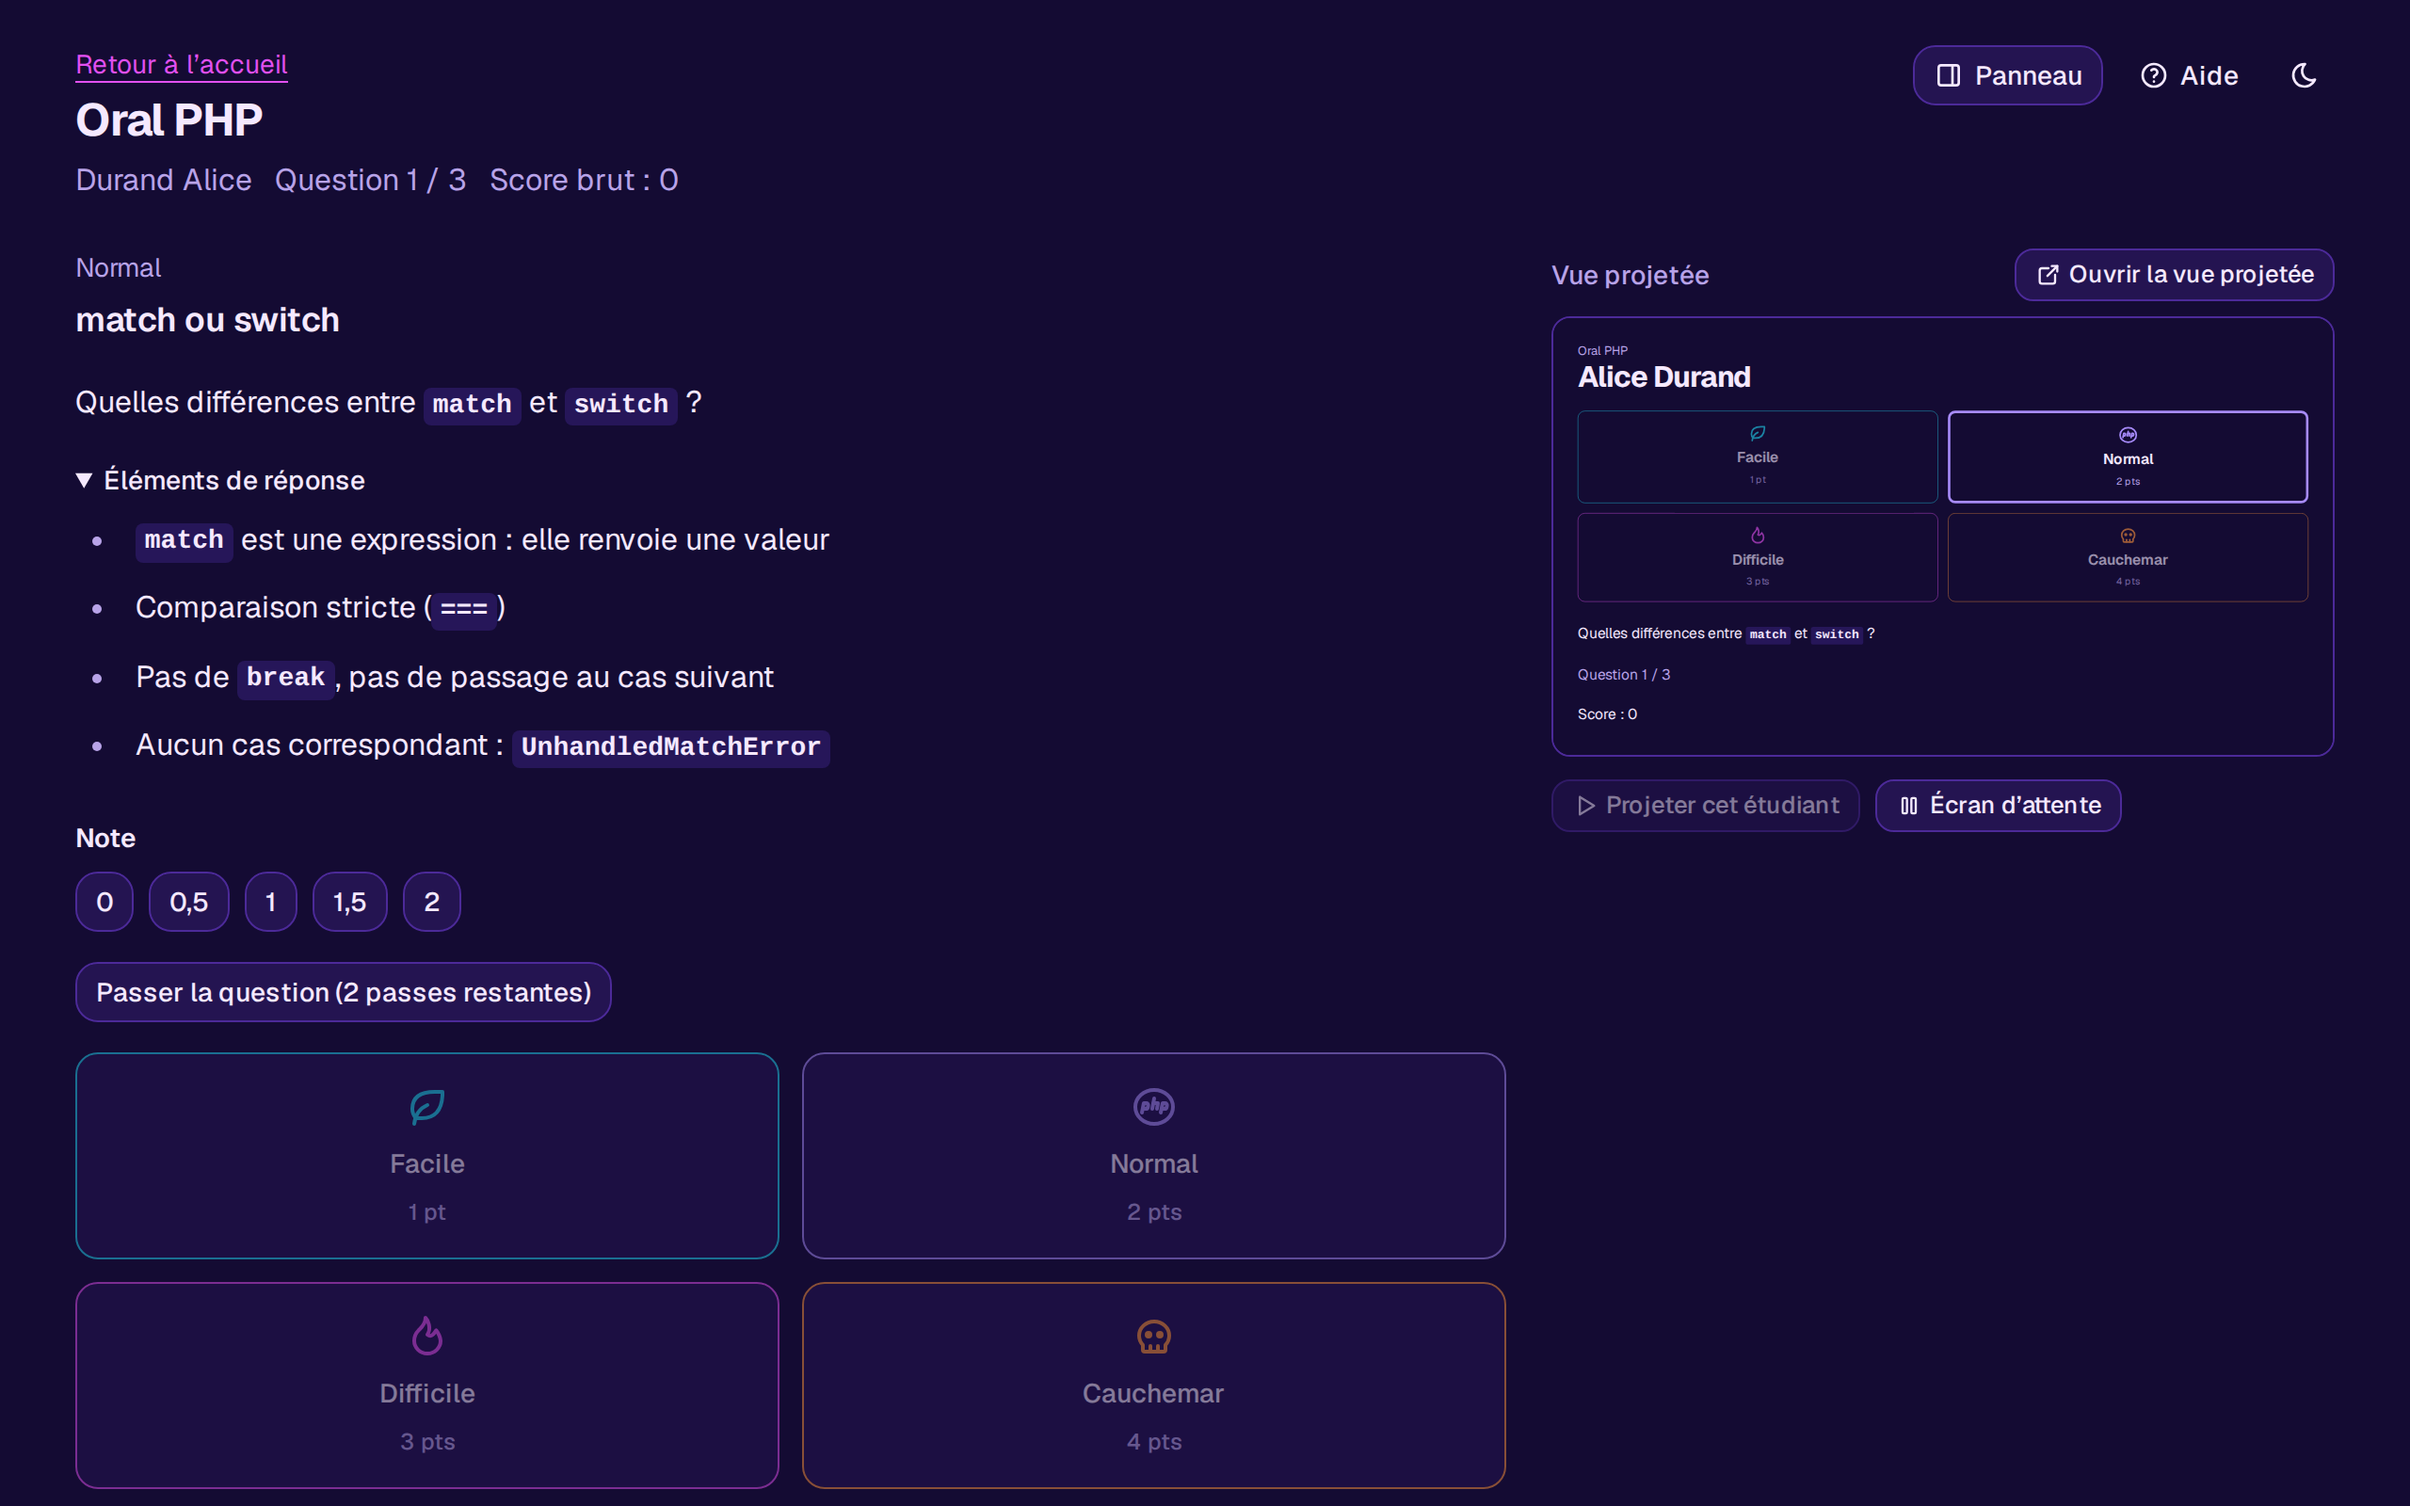
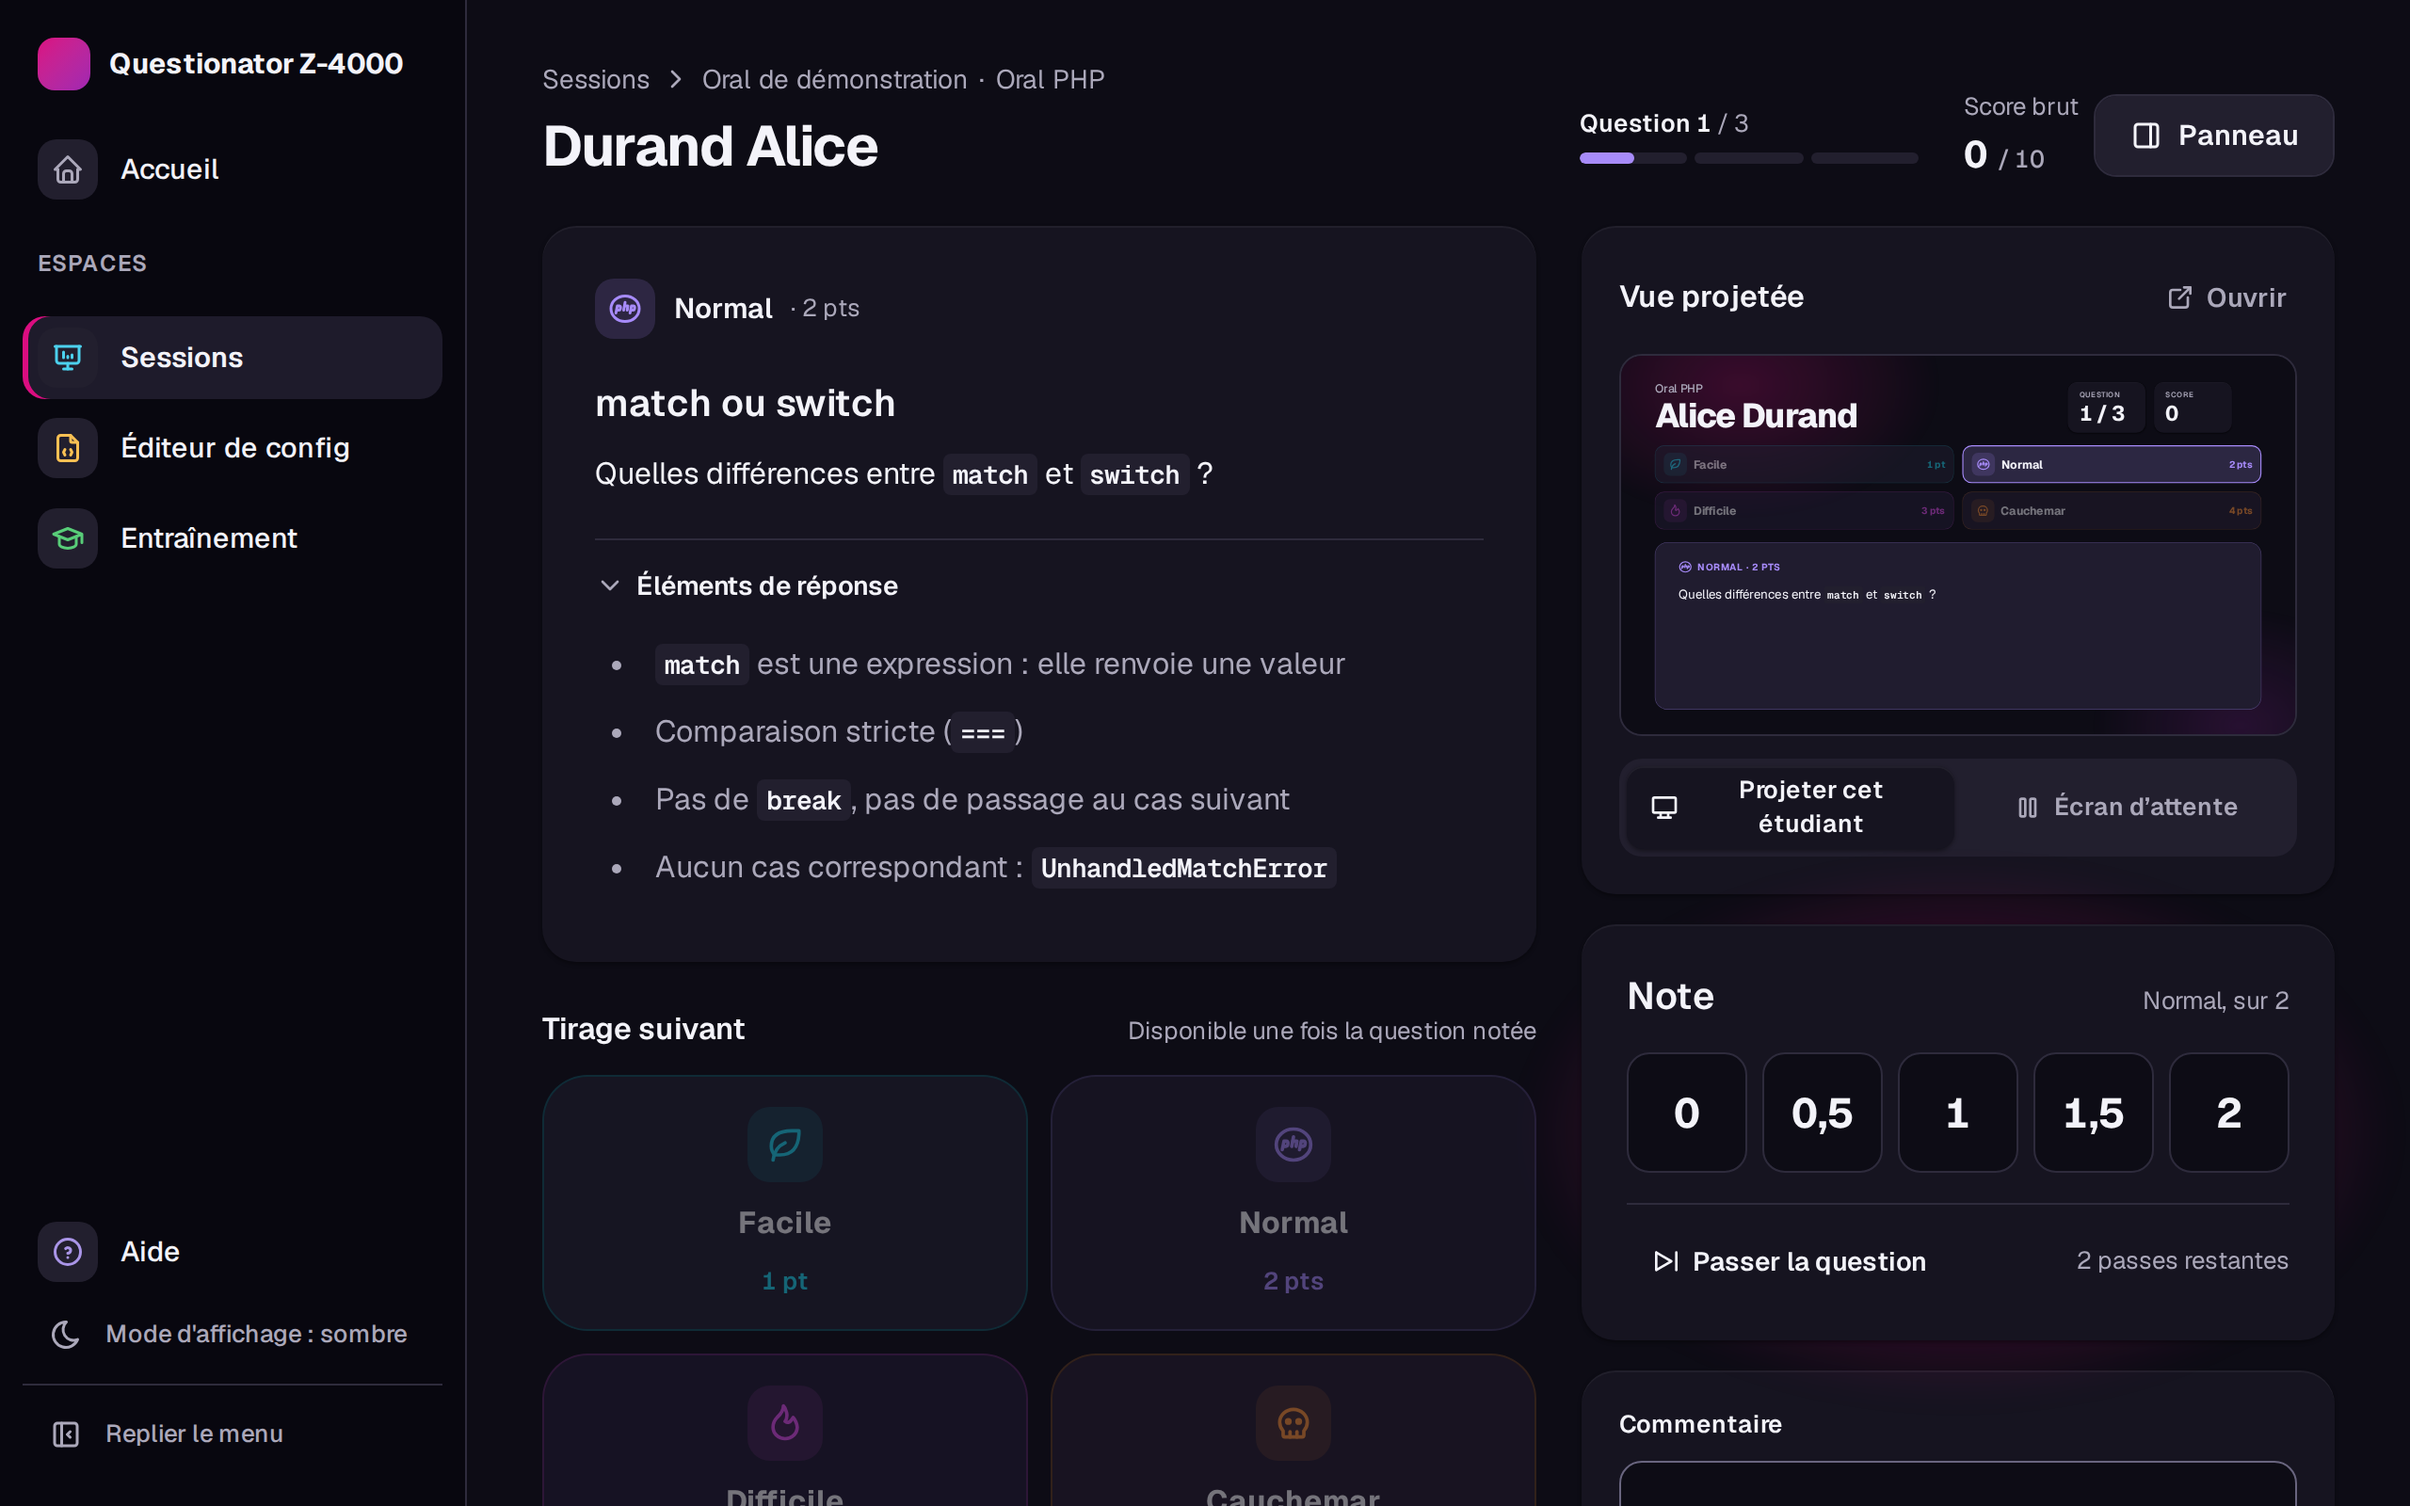
📸 Régénère les captures du guide en sombre, avec les nouveaux écrans
Script réparé (accueil en tableau de bord, F44.5), parcours session et
entraînement enchaînés, captures sessions, entrainements,
accueil-reprendre, stats-vide et mode-clair. Attente des icônes de
catégorie et horloge avancée avant l'entraînement pour des images stables.

Claude-Session: https://claude.ai/code/session_015ri3dD2BGe8H7cg5Xh18Sv

diff --git a/e2e/screenshots/guide.spec.ts b/e2e/screenshots/guide.spec.ts
@@ -2,25 +2,33 @@ import { readFileSync, writeFileSync } from 'node:fs'
 import type { Page } from '@playwright/test'
 import { examplePath } from '../fixtures.ts'
 import { HomePage } from '../pages/home-page.ts'
-import { capture, expect, test } from './determinism.ts'
+import { SessionsPage } from '../pages/sessions-page.ts'
+import { TrainingsPage } from '../pages/trainings-page.ts'
+import { FROZEN_TIME, capture, expect, test } from './determinism.ts'
 
 /** Histogramme dessiné : au moins une barre non vide est visible. */
 async function expectBarDrawn(page: Page): Promise<void> {
   await expect(page.locator('[data-bar]').first()).toBeVisible()
 }
 
-const SESSION_NAME = 'Oral de démonstration'
+/** Icônes des catégories de `config.example.json`, chargées à la demande (chunk Tabler). */
+const CATEGORY_ICONS = ['leaf', 'brand-php', 'flame', 'skull']
 
-/**
- * Captures du guide (F28), dans l'ordre du parcours d'un utilisateur. Un seul scénario pour la
- * session créée et passée ; la capture des avertissements de création est un scénario à part.
- */
-test('parcours complet : création, passage, vue projetée, statistiques, éditeur', async ({
-  page,
-}) => {
+/** Icônes de catégorie dessinées : sans cette attente, la capture part parfois avant le chunk. */
+async function expectCategoryIconsDrawn(page: Page): Promise<void> {
+  for (const icon of CATEGORY_ICONS) {
+    await expect(page.locator(`svg.tabler-icon-${icon}`).first()).toBeVisible()
+  }
+}
+
+const SESSION_NAME = 'Oral de démonstration'
+const TRAINING_NAME = 'Git, les bases'
+
+/** Session créée, état vide des stats, passage, vue projetée, stats, éditeur. */
+async function sessionScenario(page: Page): Promise<void> {
   const home = new HomePage(page)
   await home.goto()
-  await expect(page.getByRole('link', { name: 'Créer une session' }).first()).toBeVisible()
+  await expect(home.firstRun).toBeVisible()
   await capture(page, 'accueil')
 
   const create = await home.createSession()
@@ -29,9 +37,15 @@ test('parcours complet : création, passage, vue projetée, statistiques, édite
   await create.fillName(SESSION_NAME)
   await expect(page.getByRole('textbox', { name: 'Nom de la session' })).toHaveValue(SESSION_NAME)
   await page.getByRole('textbox', { name: 'Nom de la session' }).blur()
+  await expectCategoryIconsDrawn(page)
   await capture(page, 'creation-session')
 
-  const examiner = await create.submit()
+  const created = await create.submit()
+  const emptyStats = await created.openStats()
+  await expect(emptyStats.emptyState).toBeVisible()
+  await capture(page, 'stats-vide')
+
+  const examiner = await emptyStats.goToPassage()
   const present = await examiner.openPresentView()
   await examiner.projectActiveStudent()
   await expect(present.studentName('Alice Durand')).toBeVisible()
@@ -46,6 +60,7 @@ test('parcours complet : création, passage, vue projetée, statistiques, édite
 
   // La vue projetée a fini son animation de tirage (énoncé visible) : elle porte la même question.
   await present.prompt.waitFor()
+  await expectCategoryIconsDrawn(present.page)
   await capture(present.page, 'vue-projetee')
 
   await examiner.openPanel('Liste')
@@ -69,32 +84,14 @@ test('parcours complet : création, passage, vue projetée, statistiques, édite
   await capture(page, 'statistiques')
 
   await home.goto()
-  await expect(page.getByRole('button', { name: `Actions pour « ${SESSION_NAME} »` })).toBeVisible()
-  await capture(page, 'accueil-sessions')
-
   const editor = await home.openEditor()
   await expect(editor.previewQuestions.first()).toBeVisible()
   await expect(editor.noIssues).toBeVisible()
   await capture(page, 'editeur-config')
-})
+}
 
-test('création : un CSV avec un doublon affiche un avertissement', async ({ page }, testInfo) => {
-  const csv = `${readFileSync(examplePath('students.example.csv'), 'utf8').trimEnd()}\r\nDurand;Alice\r\n`
-  const csvPath = testInfo.outputPath('etudiants-doublon.csv')
-  writeFileSync(csvPath, csv)
-
-  const home = new HomePage(page)
-  await home.goto()
-  const create = await home.createSession()
-  await create.uploadStudents(csvPath)
-  await create.uploadConfig(examplePath('config.example.json'))
-  await create.fillName(SESSION_NAME)
-  await expect(page.getByText('Fichier valide, avec avertissements')).toBeVisible()
-  await page.getByRole('textbox', { name: 'Nom de la session' }).blur()
-  await capture(page, 'creation-avertissements')
-})
-
-test('entraînement : mise en place, question révélée, stats', async ({ page }) => {
+/** Entraînement : mise en place, question révélée, quelques notes, stats. */
+async function trainingScenario(page: Page): Promise<void> {
   const home = new HomePage(page)
   await home.goto()
   const setup = await home.startTraining()
@@ -111,8 +108,11 @@ test('entraînement : mise en place, question révélée, stats', async ({ page 
   await training.draw('Normal')
   await training.reveal()
   await expect(training.answerTitle).toBeVisible()
-  // Page entière : à 800 px de haut, le bouton « Passer » sous la réponse serait coupé.
-  await capture(page, 'entrainement-question', { fullPage: true })
+  // Fenêtre plus haute : à 800 px, « Passer » serait coupé, et une capture en page entière
+  // arrêterait le menu latéral (hauteur d'écran) à 800 px.
+  await page.setViewportSize({ width: 1280, height: 1110 })
+  await capture(page, 'entrainement-question')
+  await page.setViewportSize({ width: 1280, height: 800 })
 
   // Quelques notes, dont deux sous la moitié du barème (« À revoir »), et un passage.
   await training.score('1,5')
@@ -133,4 +133,55 @@ test('entraînement : mise en place, question révélée, stats', async ({ page 
   await expect(stats.keyFigures).toContainText('5 réponses notées')
   await expect(stats.reviewList).toBeVisible()
   await capture(page, 'entrainement-stats')
+}
+
+/**
+ * Captures du guide (F28, F44.11), dans l'ordre du parcours d'un utilisateur. Un seul scénario
+ * pour la session et l'entraînement, pour que l'accueil et les pages d'espace montrent les deux ;
+ * la capture des avertissements de création est un scénario à part.
+ */
+test('parcours complet : session, entraînement, espaces, mode clair', async ({ page }) => {
+  await sessionScenario(page)
+  // Une heure plus tard : à date égale, « Reprendre » départage par identifiant, qui est aléatoire.
+  await page.clock.setFixedTime(new Date(FROZEN_TIME.getTime() + 60 * 60 * 1000))
+  await trainingScenario(page)
+
+  const sessions = new SessionsPage(page)
+  await sessions.goto()
+  await expect(sessions.sessionCard(SESSION_NAME)).toBeVisible()
+  await capture(page, 'sessions')
+
+  const trainings = new TrainingsPage(page)
+  await trainings.goto()
+  await expect(trainings.trainingCard(TRAINING_NAME)).toBeVisible()
+  await capture(page, 'entrainements')
+
+  const home = new HomePage(page)
+  await home.goto()
+  await expect(home.resume).toContainText(SESSION_NAME)
+  await expect(home.resume).toContainText(TRAINING_NAME)
+  await capture(page, 'accueil-reprendre')
+
+  // Seule capture en clair (D113) : le mode global suit le système par défaut.
+  await page.emulateMedia({ colorScheme: 'light' })
+  await home.goto()
+  await expect(page.locator('html')).not.toHaveClass(/\bdark\b/)
+  await capture(page, 'mode-clair')
+})
+
+test('création : un CSV avec un doublon affiche un avertissement', async ({ page }, testInfo) => {
+  const csv = `${readFileSync(examplePath('students.example.csv'), 'utf8').trimEnd()}\r\nDurand;Alice\r\n`
+  const csvPath = testInfo.outputPath('etudiants-doublon.csv')
+  writeFileSync(csvPath, csv)
+
+  const home = new HomePage(page)
+  await home.goto()
+  const create = await home.createSession()
+  await create.uploadStudents(csvPath)
+  await create.uploadConfig(examplePath('config.example.json'))
+  await create.fillName(SESSION_NAME)
+  await expect(page.getByText('Fichier valide, avec avertissements')).toBeVisible()
+  await page.getByRole('textbox', { name: 'Nom de la session' }).blur()
+  await expectCategoryIconsDrawn(page)
+  await capture(page, 'creation-avertissements')
 })

diff --git a/playwright.screenshots.config.ts b/playwright.screenshots.config.ts
@@ -10,12 +10,15 @@ export default defineConfig({
   workers: 1,
   fullyParallel: false,
   retries: 0,
+  // Un seul scénario enchaîne la session et l'entraînement : plus long que les 30 s par défaut.
+  timeout: 180_000,
   reporter: 'list',
   use: {
     baseURL,
     viewport: { width: 1280, height: 800 },
     deviceScaleFactor: 2,
-    colorScheme: 'light',
+    // Sombre (F44.11, D113) : seule la capture `mode-clair` force le clair dans le scénario.
+    colorScheme: 'dark',
     locale: 'fr-FR',
     timezoneId: 'Europe/Paris',
     // Sans service worker : pas de mise à jour de l'app ni de bandeau parasite dans les captures.
